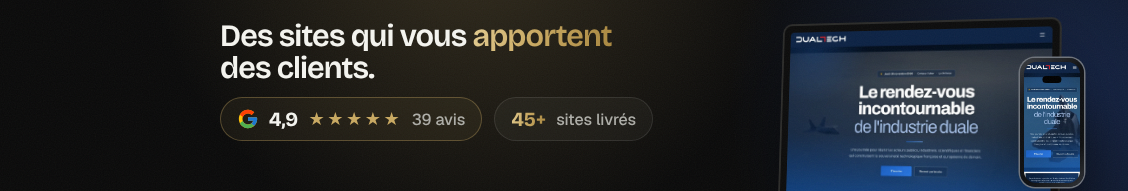
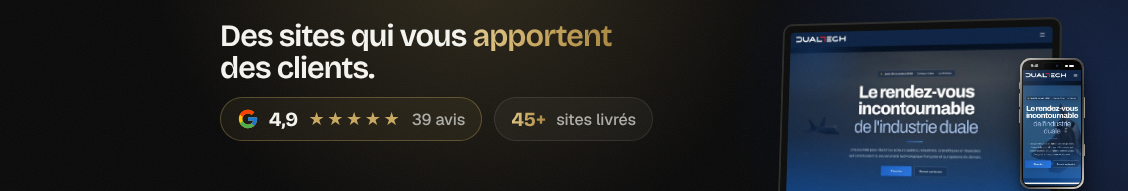
Kit réseaux sociaux : maquette de téléphone façon iPhone récent (cadre titane, Dynamic Island, barre d'état, boutons)
Claude-Session: https://claude.ai/code/session_01QEecSGPaSS2i4pfHtVUcyd

Changed region(s): [[0.8998, 0.288, 0.9619, 1.0]]

diff --git a/aurea-media/reseaux-sociaux/sources/kit.html b/aurea-media/reseaux-sociaux/sources/kit.html
@@ -29,9 +29,20 @@
 .laptop .ecran img{display:block;width:100%;aspect-ratio:16/10;object-fit:cover;object-position:top;border-radius:4px 4px 0 0}
 .laptop .base{height:14px;margin:0 -7%;background:linear-gradient(#3a3a37,#1d1d1b);border-radius:0 0 14px 14px;box-shadow:0 20px 40px rgba(0,0,0,.6)}
 .laptop .base:after{content:"";display:block;width:18%;height:5px;margin:0 auto;background:#121211;border-radius:0 0 6px 6px}
-.tel{position:absolute;border-radius:38px;background:linear-gradient(145deg,#3a3d42,#0d0e10 30%,#0d0e10 75%,#2c2f34);padding:9px;box-shadow:0 0 0 1.5px #6e737a,0 40px 70px rgba(0,0,0,.6)}
-.tel img{display:block;width:100%;aspect-ratio:9/19.5;object-fit:cover;object-position:top;border-radius:30px}
-.tel:after{content:"";position:absolute;top:18px;left:50%;width:30%;height:5.5%;max-height:24px;transform:translateX(-50%);background:#000;border-radius:20px}
+/* iPhone récent (gamme Pro) : cadre titane fin, bords d'écran très étroits, Dynamic Island, boutons latéraux.
+   Toutes les cotes sont proportionnelles à la largeur (variable --w posée par iphone()). */
+.tel{position:absolute;--w:150px;border-radius:calc(var(--w) * .165);padding:calc(var(--w) * .032);
+  background:linear-gradient(135deg,#d9d6cf 0%,#8e8a82 12%,#4b4844 30%,#2a2826 50%,#4b4844 70%,#9b968d 88%,#e2ded6 100%);
+  box-shadow:0 0 0 calc(var(--w) * .004) rgba(255,255,255,.35) inset,0 calc(var(--w) * .25) calc(var(--w) * .45) rgba(0,0,0,.55),0 calc(var(--w) * .06) calc(var(--w) * .1) rgba(0,0,0,.35)}
+.tel .verre{position:relative;border-radius:calc(var(--w) * .135);overflow:hidden;background:#000;padding:calc(var(--w) * .022)}
+.tel img{display:block;width:100%;aspect-ratio:9/18.2;object-fit:cover;object-position:top;border-radius:calc(var(--w) * .115) !important}
+.tel .statut{display:flex;justify-content:space-between;align-items:center;height:calc(var(--w) * .135);padding:0 calc(var(--w) * .1) 0 calc(var(--w) * .115);font:600 calc(var(--w) * .062) Geist,sans-serif;border-radius:calc(var(--w) * .115) calc(var(--w) * .115) 0 0}
+.tel .statut i{display:inline-block;margin-left:calc(var(--w) * .02);border-radius:2px;background:currentColor}
+.tel .verre > img{border-radius:0 0 calc(var(--w) * .115) calc(var(--w) * .115) !important}
+.tel .ile{position:absolute;top:calc(var(--w) * .052);left:50%;width:31%;height:calc(var(--w) * .09);transform:translateX(-50%);background:#000;border-radius:999px;box-shadow:0 0 0 1px rgba(255,255,255,.04)}
+.tel .ile:after{content:"";position:absolute;right:12%;top:50%;width:calc(var(--w) * .045);height:calc(var(--w) * .045);transform:translateY(-50%);border-radius:50%;background:radial-gradient(circle at 35% 35%,#2b3a5c,#05070c 65%)}
+.tel .reflet{position:absolute;inset:0;border-radius:inherit;pointer-events:none;background:linear-gradient(115deg,rgba(255,255,255,.16) 0%,rgba(255,255,255,0) 30%,rgba(255,255,255,0) 75%,rgba(255,255,255,.06) 100%)}
+.tel .btn{position:absolute;width:calc(var(--w) * .022);border-radius:2px;background:linear-gradient(90deg,#3a3835,#a19c93 55%,#55524d)}
 .mark{display:block}
 .filet{position:absolute;left:0;right:0;height:1px;background:linear-gradient(90deg,transparent,rgba(201,169,97,.5),transparent)}
 </style></head><body>
@@ -167,6 +178,20 @@ fetch('icones.svg').then(r => r.text()).then(t => { document.getElementById('ico
 // couvertures de stories à la une
 const UNES = [['une-realisations', 'i-window'], ['une-avis', 'i-star'], ['une-tarifs', 'i-cart'], ['une-methode', 'i-calendar'], ['une-videos', 'i-film'], ['une-contact', 'i-mail']];
 for (const [id, ic] of UNES) { const n = document.getElementById('tpl-une').content.firstElementChild.cloneNode(true); n.id = id; n.querySelector('use').setAttribute('href', '#' + ic); document.body.appendChild(n); }
+// habille chaque .tel en iPhone récent : verre, Dynamic Island, reflet, boutons (action, volume, alimentation, commande caméra)
+document.querySelectorAll('.tel').forEach(t => {
+  const w = parseFloat(t.style.width); t.style.setProperty('--w', w + 'px'); t.style.borderRadius = ''; t.style.padding = '';
+  const img = t.querySelector('img'); img.style.borderRadius = '';
+  const verre = document.createElement('div'); verre.className = 'verre'; t.insertBefore(verre, img); verre.appendChild(img);
+  // barre d'état aux couleurs du haut de la page (comme un vrai iPhone : le contenu commence sous la Dynamic Island)
+  const c = document.createElement('canvas'); c.width = c.height = 4; const x = c.getContext('2d'); x.drawImage(img, 0, 0, 40, 40, 0, 0, 4, 4);
+  const [r, g, b] = x.getImageData(1, 1, 1, 1).data, clair = (r * .3 + g * .59 + b * .11) > 150;
+  verre.insertAdjacentHTML('afterbegin', `<div class="statut" style="background:rgb(${r},${g},${b});color:${clair ? '#111' : '#fff'}"><span>9:41</span><span><i style="width:calc(var(--w) * .05);height:calc(var(--w) * .035)"></i><i style="width:calc(var(--w) * .075);height:calc(var(--w) * .035);border-radius:3px"></i></span></div>`);
+  verre.insertAdjacentHTML('beforeend', '<div class="ile"></div><div class="reflet"></div>');
+  const H = w * 19.5 / 9;   // proportions d'un iPhone récent
+  for (const [cote, y, h] of [['g', .17, .055], ['g', .25, .1], ['g', .37, .1], ['d', .28, .15], ['d', .62, .09]]) {
+    const b = document.createElement('div'); b.className = 'btn'; b.style.top = (H * y) + 'px'; b.style.height = (H * h) + 'px'; b.style[cote === 'g' ? 'left' : 'right'] = (-w * .018) + 'px'; t.appendChild(b); }
+});
 window.montrer = id => { document.querySelectorAll('.v').forEach(v => v.classList.toggle('on', v.id === id)); const v = document.getElementById(id); return [v.offsetWidth, v.offsetHeight]; };
 </script>
 </body></html>
